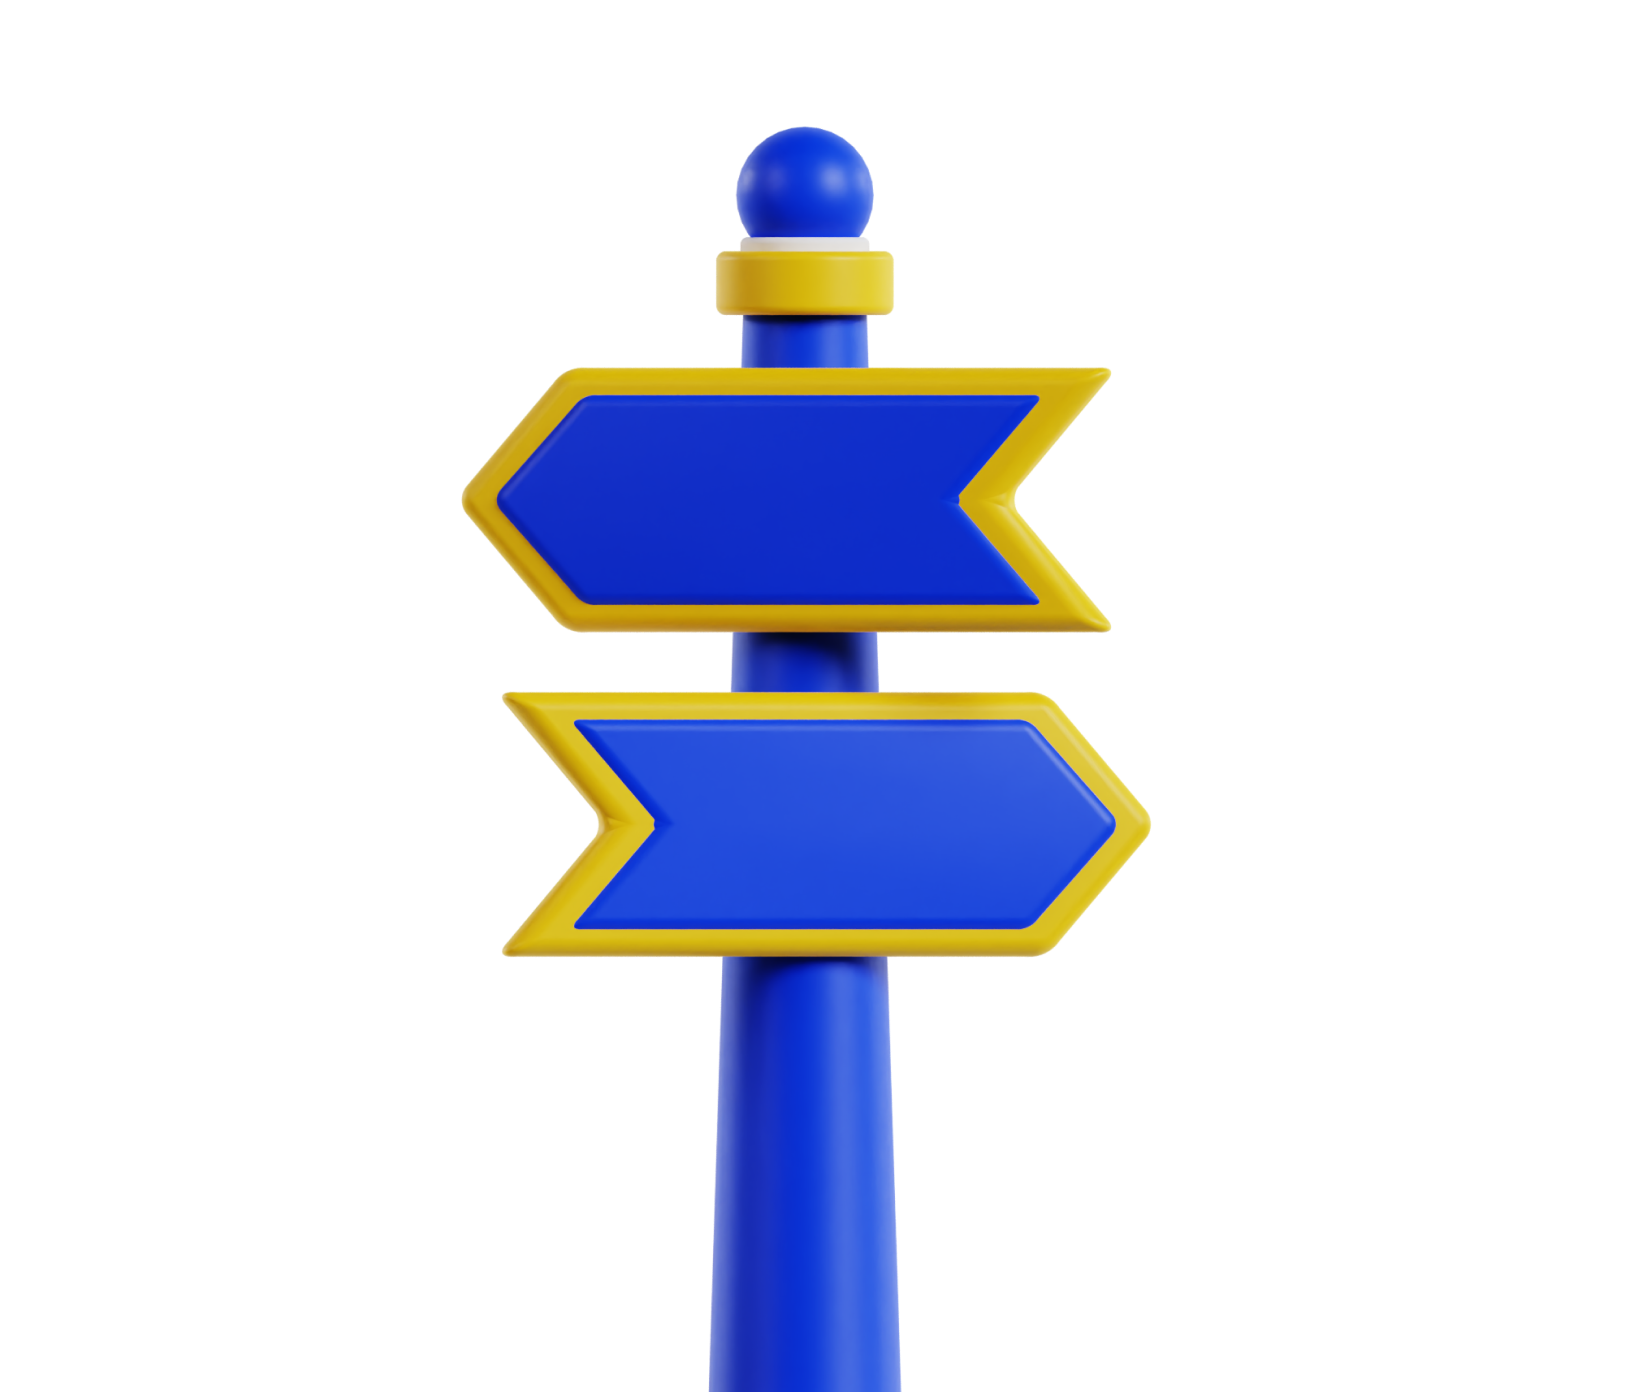
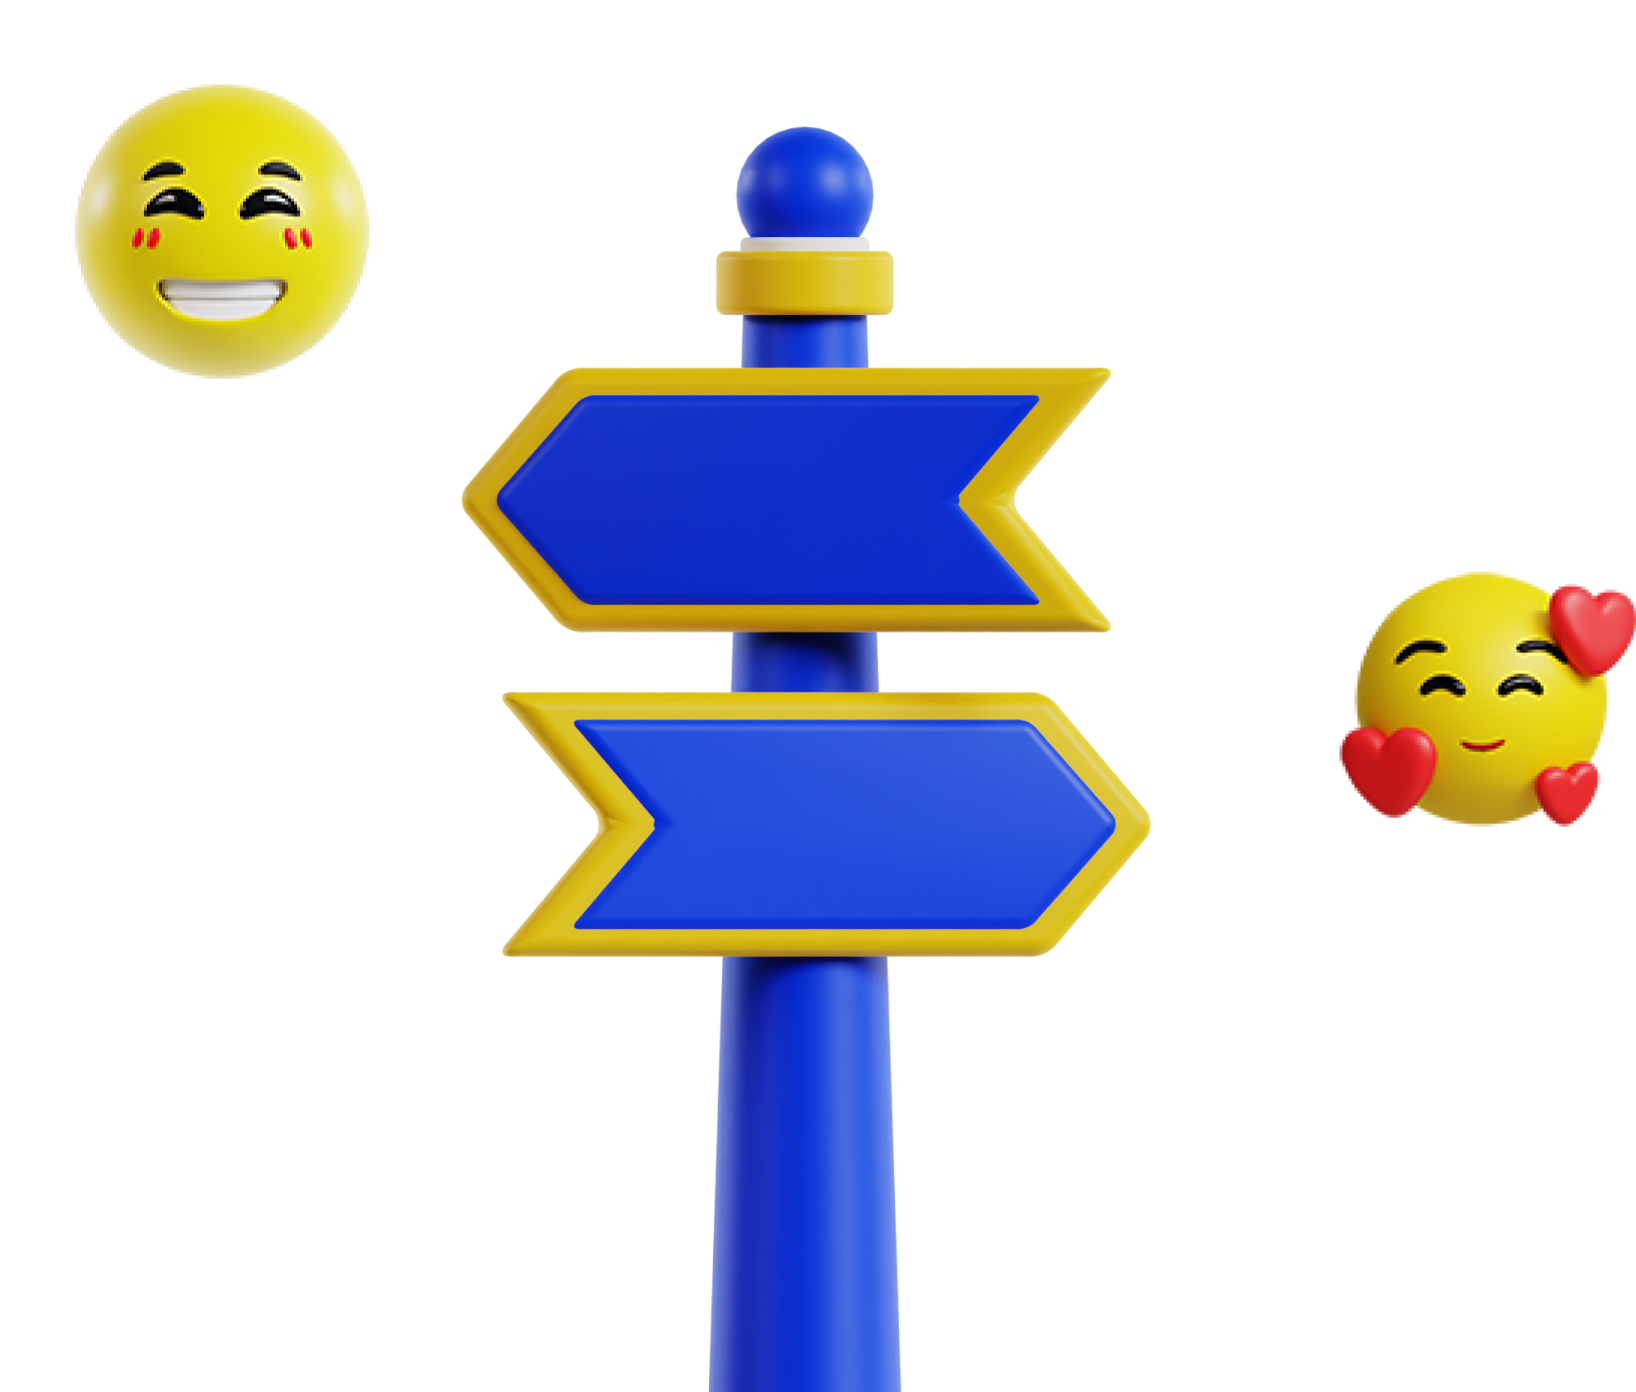
Feature: 셀프코칭 이미지 추가 + 스타일 적용

diff --git a/src/App.tsx b/src/App.tsx
@@ -9,17 +9,16 @@ import SelfCoaching from "./components/SelfCoaching";
 import Footer from "./components/Footer";
 
 function App() {
-  //질문
-  //셀프코칭쪽 스마일 이미지 합쳐줄 수 있는지
-
   //TODO
   //모바일버전 남음
+  //pc애니메이션 추가
   //font적용
   //quiz부분 회색원
   //커뮤니티부분 회색원
   //강의부분 회색원
   //상담부분 회색원
   //outro 원 추가해야함
+  // 모달 2개
 
   return (
     <>

diff --git a/src/components/SelfCoaching.tsx b/src/components/SelfCoaching.tsx
@@ -52,7 +52,11 @@ const Title = styled.div`
 
 const RightContent = styled.div``;
 
-const LeftContent = styled.div``;
+const LeftContent = styled.div`
+  display: inline-flex;
+  flex-direction: column;
+  align-items: center;
+`;
 
 const SelfCoachingImage = styled.img`
   object-fit: contain;
